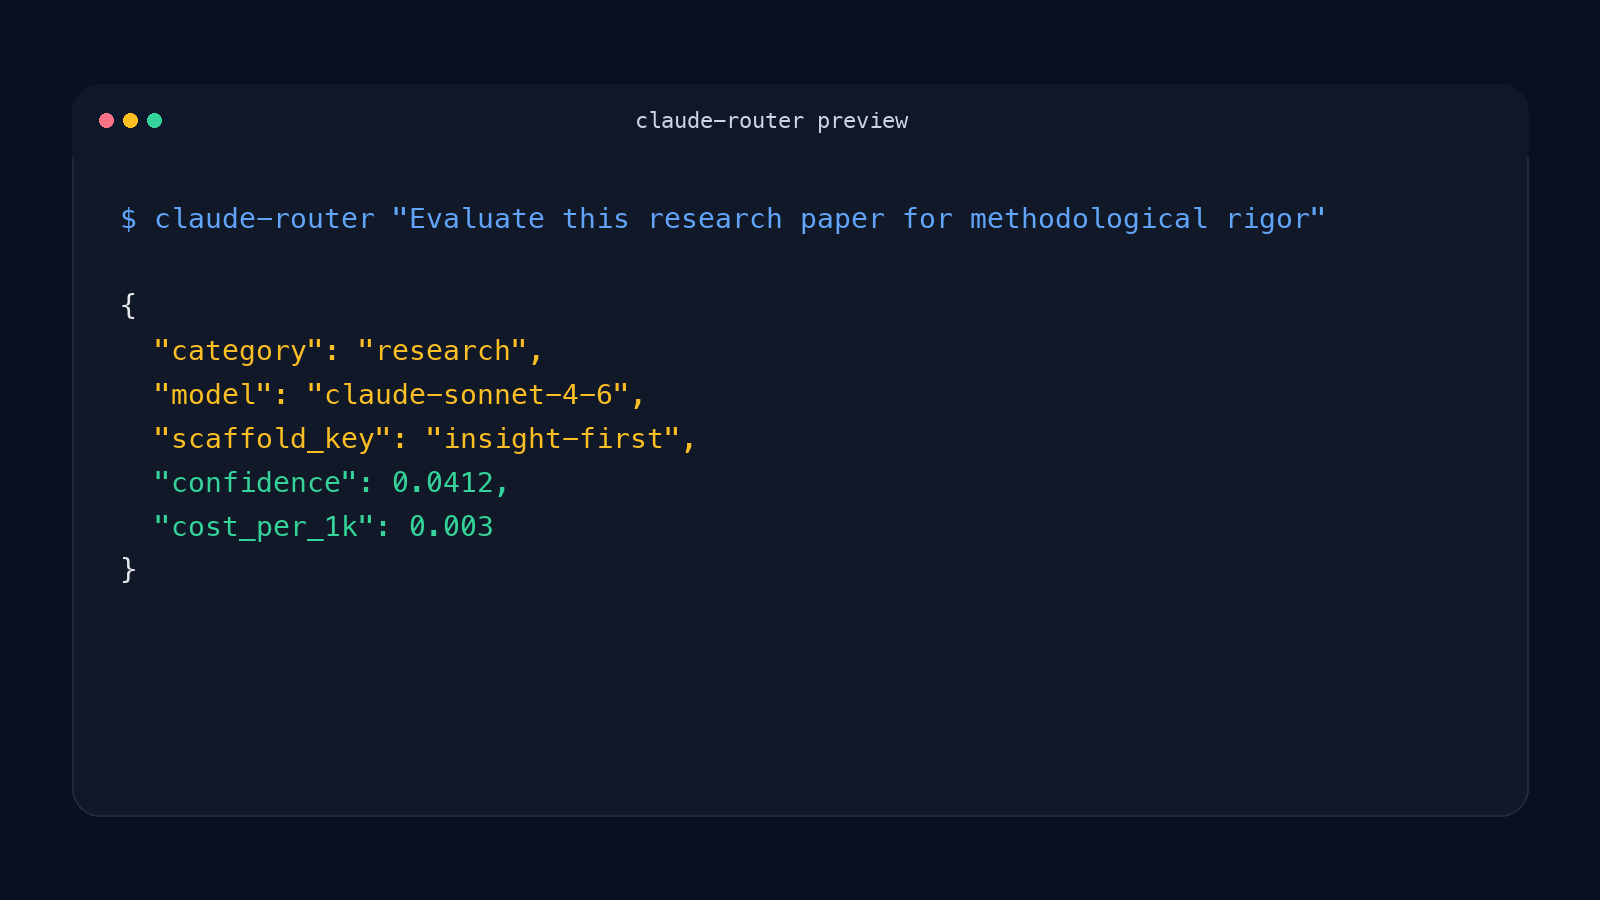
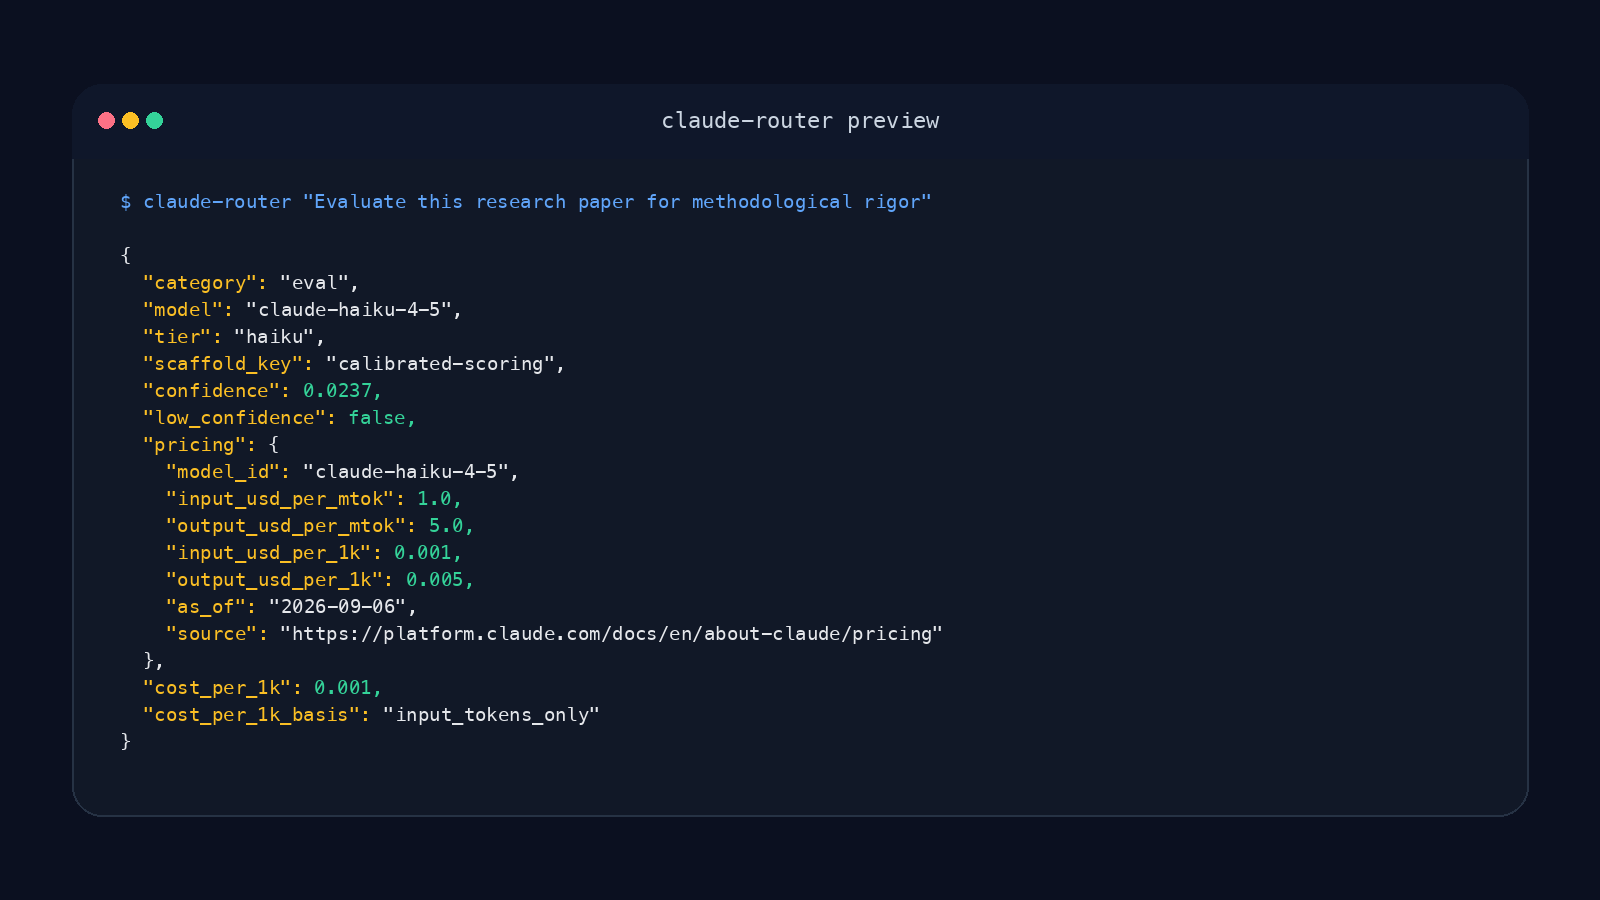
Finish pricing review corrections and regenerate preview

diff --git a/scripts/render_preview.py b/scripts/render_preview.py
@@ -1,0 +1,97 @@
+#!/usr/bin/env python3
+"""Render the README terminal preview from its checked-in source text."""
+
+from __future__ import annotations
+
+import argparse
+from pathlib import Path
+
+from PIL import Image, ImageDraw, ImageFont
+
+
+WIDTH = 1600
+HEIGHT = 900
+PAGE = "#0b1020"
+PANEL = "#111827"
+HEADER = "#0f172a"
+BODY = "#e5e7eb"
+PROMPT = "#60a5fa"
+KEY = "#fbbf24"
+VALUE = "#34d399"
+FONT_PATH = Path("/System/Library/Fonts/Menlo.ttc")
+
+
+def load_font(size: int) -> ImageFont.FreeTypeFont:
+    if not FONT_PATH.exists():
+        raise SystemExit(f"Menlo is required to render the preview: {FONT_PATH}")
+    return ImageFont.truetype(str(FONT_PATH), size=size)
+
+
+def draw_json_line(
+    draw: ImageDraw.ImageDraw,
+    xy: tuple[int, int],
+    line: str,
+    font: ImageFont.FreeTypeFont,
+) -> None:
+    """Draw a JSON line with deterministic, minimal syntax highlighting."""
+    x, y = xy
+    stripped = line.lstrip()
+    indent = line[: len(line) - len(stripped)]
+    draw.text((x, y), indent, fill=BODY, font=font)
+    x += round(draw.textlength(indent, font=font))
+
+    if stripped.startswith('"') and '":' in stripped:
+        key, rest = stripped.split(":", 1)
+        key = f"{key}:"
+        draw.text((x, y), key, fill=KEY, font=font)
+        x += round(draw.textlength(key, font=font))
+        color = VALUE if rest.strip().startswith(("true", "false", "null", *"0123456789-")) else BODY
+        draw.text((x, y), rest, fill=color, font=font)
+        return
+
+    draw.text((x, y), stripped, fill=BODY, font=font)
+
+
+def render(source: Path, output: Path) -> None:
+    lines = source.read_text(encoding="utf-8").splitlines()
+    if not lines or not lines[0].startswith("$ claude-router "):
+        raise SystemExit(f"unexpected preview source: {source}")
+
+    image = Image.new("RGB", (WIDTH, HEIGHT), PAGE)
+    draw = ImageDraw.Draw(image)
+    panel = (72, 84, 1528, 816)
+    draw.rounded_rectangle(panel, radius=30, fill=PANEL, outline="#263244", width=2)
+    draw.rounded_rectangle((72, 84, 1528, 158), radius=30, fill=HEADER)
+    draw.rectangle((72, 128, 1528, 158), fill=HEADER)
+
+    for x, color in ((106, "#fb7185"), (130, "#fbbf24"), (154, "#34d399")):
+        draw.ellipse((x - 8, 112, x + 8, 128), fill=color)
+
+    title_font = load_font(22)
+    body_font = load_font(19)
+    draw.text((800, 120), "claude-router preview", fill="#cbd5e1", font=title_font, anchor="mm")
+
+    x = 120
+    y = 190
+    line_height = 27
+    draw.text((x, y), lines[0], fill=PROMPT, font=body_font)
+    for line in lines[1:]:
+        y += line_height
+        draw_json_line(draw, (x, y), line, body_font)
+
+    if y + line_height > panel[3] - 20:
+        raise SystemExit("preview output does not fit in the terminal panel")
+    output.parent.mkdir(parents=True, exist_ok=True)
+    image.save(output, format="PNG", optimize=True)
+
+
+def main() -> None:
+    parser = argparse.ArgumentParser()
+    parser.add_argument("--source", type=Path, default=Path("assets/preview-source.txt"))
+    parser.add_argument("--output", type=Path, default=Path("assets/preview.png"))
+    args = parser.parse_args()
+    render(args.source, args.output)
+
+
+if __name__ == "__main__":
+    main()

diff --git a/router.py b/router.py
@@ -36,8 +36,8 @@ SCAFFOLDS_FILE = Path(__file__).parent / "scaffolds.json"
 PRICING_FILE = Path(__file__).parent / "src" / "claude_router" / "model_pricing.json"
 OLLAMA_URL = os.getenv("OLLAMA_EMBED_URL", "http://localhost:11434/api/embed")
 
-# Pinned to the models the bundled benchmarks were actually run against. Changing an
-# ID here invalidates the evidence in benchmarks/ — do not bump without a new run.
+# Public routing contract. The bundled benchmarks include historical model generations,
+# so changing an ID needs fresh validation rather than treating old results as transferable.
 MODEL_IDS: dict[str, str] = {
     "haiku": "claude-haiku-4-5",
     "sonnet": "claude-sonnet-4-6",

diff --git a/src/claude_router/router.py b/src/claude_router/router.py
@@ -35,8 +35,8 @@ SCAFFOLDS_FILE = Path(__file__).parent / "scaffolds.json"
 PRICING_FILE = Path(__file__).parent / "model_pricing.json"
 OLLAMA_URL = os.getenv("OLLAMA_EMBED_URL", "http://localhost:11434/api/embed")
 
-# Pinned to the models the bundled benchmarks were actually run against. Changing an
-# ID here invalidates the evidence in benchmarks/ — do not bump without a new run.
+# Public routing contract. The bundled benchmarks include historical model generations,
+# so changing an ID needs fresh validation rather than treating old results as transferable.
 MODEL_IDS: dict[str, str] = {
     "haiku": "claude-haiku-4-5",
     "sonnet": "claude-sonnet-4-6",

diff --git a/tests/test_pricing_contract.py b/tests/test_pricing_contract.py
@@ -43,7 +43,7 @@ def route_tier(router: ClaudeRouter, tier: str, monkeypatch: pytest.MonkeyPatch)
 
 @pytest.mark.parametrize("tier", sorted(OFFICIAL))
 def test_model_ids_are_not_relabelled(router: ClaudeRouter, tier: str, monkeypatch: pytest.MonkeyPatch) -> None:
-    """The bundled IDs are tied to historical benchmark evidence — they must not move."""
+    """A pricing-only change must not silently alter the public routing contract."""
     assert route_tier(router, tier, monkeypatch)["model"] == OFFICIAL[tier]["model_id"]
 
 

diff --git a/CHANGELOG.md b/CHANGELOG.md
@@ -18,8 +18,10 @@ the list price of the model ID actually returned.
   estimate; the example now prices a call from the token counts the API reports
 - Benchmark results are unchanged; the PF-001 cost table and PF-002's "73% cheaper"
   multiplier are labelled as their historical 2026-03-20 run-date pricing
-- Corrected `assets/preview-source.txt`, which showed a `research`/`claude-sonnet-4-6`
-  route for a command that actually routes to `eval`/`claude-haiku-4-5`
+- Corrected `assets/preview-source.txt` and regenerated `assets/preview.png`; the old
+  preview showed a `research`/`claude-sonnet-4-6` route for a command that actually
+  routes to `eval`/`claude-haiku-4-5`. Added a deterministic renderer so the image can
+  be reproduced from the checked-in CLI output.
 
 ## v1.0.0 — 2026-04-17
 

diff --git a/assets/preview-spec.md b/assets/preview-spec.md
@@ -15,10 +15,4 @@
 - Rule: use real CLI output only, no mock UI, no GIFs, no stock art
 - Rule: regenerate `assets/preview.png` from `assets/preview-source.txt` whenever that file
   changes, so the image never outlives the output it claims to show
-
-## Status
-
-`assets/preview.png` is **stale and pending regeneration**. It predates the current
-`preview-source.txt`: it shows a `research`/`claude-sonnet-4-6` route for a command that
-actually routes to `eval`/`claude-haiku-4-5`, and a bare `cost_per_1k` with no input/output
-label. Regenerate it against `preview-source.txt` before the next release.
+- Renderer: `python3 scripts/render_preview.py` (requires Pillow and macOS Menlo)
